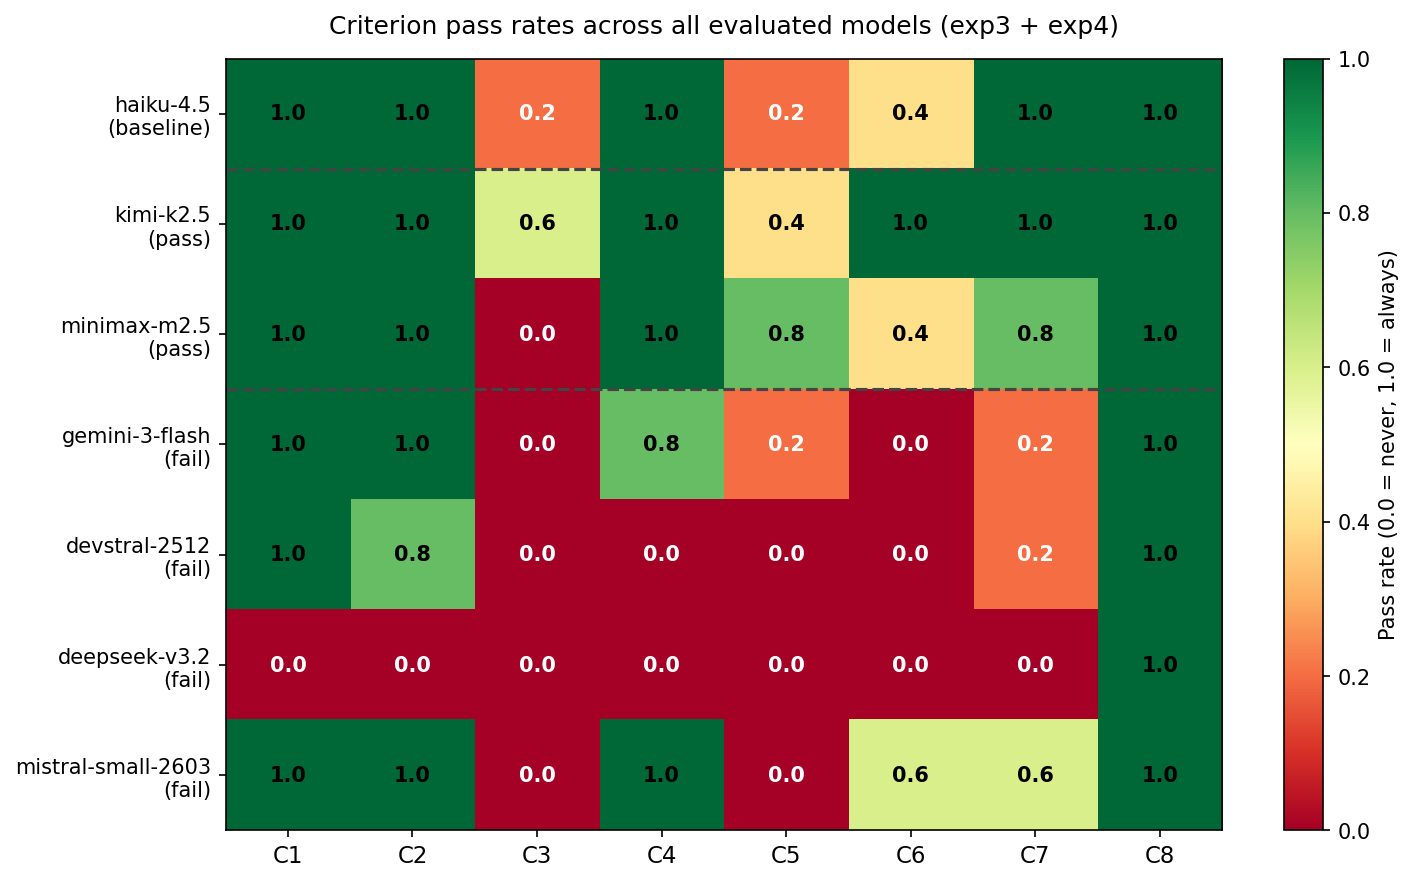
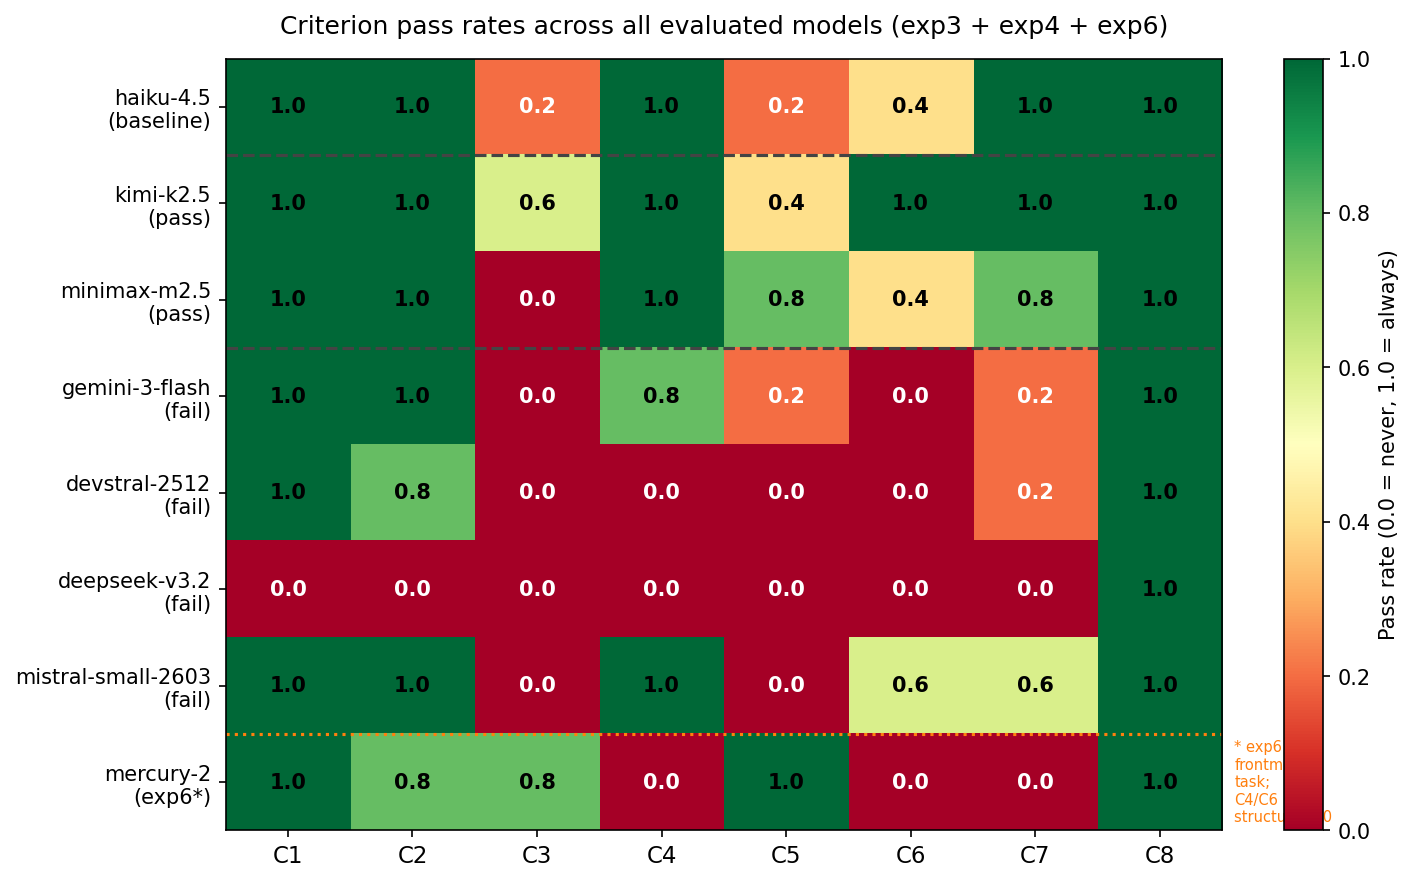
docs(figures): add Mercury 2 to all four figures
- mean-score-bar: add mercury-2 bar (exp6, orange) with task caveat annotation
- criterion-heatmap: add mercury-2 row (C4/C6 structurally 0, C7=0/5)
  with orange dashed separator and footnote
- cost-quality-scatter: add mercury-2 point (orange triangle); update
  legend and title
- eff-cost-bar: add mercury-2 bar (orange, $0.0007); asterisk annotation
  noting different task

All figures: orange = exp6 (different task), distinct from pass/fail/baseline.
Source .py files updated alongside PNGs.

diff --git a/figures/eff-cost-bar.py b/figures/eff-cost-bar.py
@@ -2,36 +2,38 @@ import matplotlib
 matplotlib.use('Agg')
 import matplotlib.pyplot as plt
 
-models    = ["minimax-m2.5", "gemini-3-flash", "deepseek-v3.2", "mistral-small-2603", "kimi-k2.5", "devstral-2512", "haiku-4.5"]
-eff_cpqp  = [0.0179,         0.0217,           0.0210,          0.0023,               0.0401,       0.045,           0.1505]
-verdicts  = ["pass",         "fail",           "fail",          "fail",               "pass",       "fail",          "baseline"]
+models    = ["minimax-m2.5", "gemini-3-flash", "deepseek-v3.2", "mistral-small-2603", "kimi-k2.5", "devstral-2512", "haiku-4.5", "mercury-2"]
+eff_cpqp  = [0.0179,         0.0217,           0.0210,          0.0023,               0.0401,       0.045,           0.1505,      0.0007]
+verdicts  = ["pass",         "fail",           "fail",          "fail",               "pass",       "fail",          "baseline",  "exp6"]
 
 # Sort by eff_cpqp ascending
 sorted_data = sorted(zip(eff_cpqp, models, verdicts))
 eff_cpqp_s, models_s, verdicts_s = zip(*sorted_data)
 
-colors_map = {"baseline": "#1f77b4", "pass": "#2ca02c", "fail": "#d62728"}
+colors_map = {"baseline": "#1f77b4", "pass": "#2ca02c", "fail": "#d62728", "exp6": "#ff7f0e"}
 bar_colors = [colors_map[v] for v in verdicts_s]
 
 fig, ax = plt.subplots(figsize=(8, 4))
 bars = ax.barh(models_s, eff_cpqp_s, color=bar_colors, height=0.6)
 
 ax.set_xlabel("Effective cost per quality point (USD) -- lower is better", fontsize=11)
-ax.set_title("Efficiency metric: eff_cost_per_qp -- exp3 & exp4 candidates", fontsize=12)
+ax.set_title("Efficiency metric: eff_cost_per_qp -- exp3, exp4, and exp6 candidates", fontsize=12)
 ax.set_xlim(0, 0.17)
 
 # Annotate bars with values
-for bar, val in zip(bars, eff_cpqp_s):
+for bar, val, model in zip(bars, eff_cpqp_s, models_s):
+    label = f"${val:.4f}" + (" *" if model == "mercury-2" else "")
     ax.text(val + 0.002, bar.get_y() + bar.get_height() / 2,
-            f"${val:.4f}", va="center", fontsize=9)
+            label, va="center", fontsize=9)
 
-# Note about DeepSeek moved to README; removed from figure
+ax.text(0.01, -0.5, "* exp6 (frontmatter task; not directly comparable to exp3/exp4)", fontsize=7, color="#ff7f0e", transform=ax.get_yaxis_transform())
 
 from matplotlib.lines import Line2D
 legend_elements = [
     Line2D([0], [0], marker="s", color="w", markerfacecolor="#1f77b4", markersize=9, label="Baseline"),
     Line2D([0], [0], marker="s", color="w", markerfacecolor="#2ca02c", markersize=9, label="Pass"),
     Line2D([0], [0], marker="s", color="w", markerfacecolor="#d62728", markersize=9, label="Fail"),
+    Line2D([0], [0], marker="s", color="w", markerfacecolor="#ff7f0e", markersize=9, label="Exp6 (different task)"),
 ]
 ax.legend(handles=legend_elements, loc="lower right", fontsize=9)
 

diff --git a/figures/cost-quality-scatter.py b/figures/cost-quality-scatter.py
@@ -3,13 +3,13 @@ matplotlib.use('Agg')
 import matplotlib.pyplot as plt
 from matplotlib.lines import Line2D
 
-models     = ["haiku-4.5", "kimi-k2.5", "minimax-m2.5", "gemini-3-flash", "devstral-2512", "deepseek-v3.2", "mistral-small-2603"]
-cost_usd   = [0.0222, 0.0122, 0.0043, 0.0021, 0.0025, 0.0011, 0.0078]
-mean_score = [5.8, 6.6, 6.4, 4.2, 3.0, 1.0, 5.4]
-verdicts   = ["baseline", "pass", "pass", "fail", "fail", "fail", "fail"]
+models     = ["haiku-4.5", "kimi-k2.5", "minimax-m2.5", "gemini-3-flash", "devstral-2512", "deepseek-v3.2", "mistral-small-2603", "mercury-2"]
+cost_usd   = [0.0222, 0.0122, 0.0043, 0.0021, 0.0025, 0.0011, 0.0078, 0.0029]
+mean_score = [5.8, 6.6, 6.4, 4.2, 3.0, 1.0, 5.4, 4.6]
+verdicts   = ["baseline", "pass", "pass", "fail", "fail", "fail", "fail", "exp6"]
 
-colors  = {"baseline": "#1f77b4", "pass": "#2ca02c", "fail": "#d62728"}
-markers = {"baseline": "D", "pass": "o", "fail": "x"}
+colors  = {"baseline": "#1f77b4", "pass": "#2ca02c", "fail": "#d62728", "exp6": "#ff7f0e"}
+markers = {"baseline": "D", "pass": "o", "fail": "x", "exp6": "^"}
 offsets = {
     "haiku-4.5":      (8, -12),
     "kimi-k2.5":      (8,   4),
@@ -18,6 +18,7 @@ offsets = {
     "devstral-2512":  (8, -12),
     "deepseek-v3.2":  (8,   4),
     "mistral-small-2603": (8, -12),
+    "mercury-2":      (8,   4),
 }
 
 fig, ax = plt.subplots(figsize=(8, 5))
@@ -35,12 +36,13 @@ ax.set_xlim(0.0005, 0.1)
 ax.set_ylim(0, 8.5)
 ax.set_xlabel("Estimated cost per run (USD, log scale)", fontsize=11)
 ax.set_ylabel("Mean total score (0-8)", fontsize=11)
-ax.set_title("Quality vs. Cost -- exp3 & exp4 candidates", fontsize=12)
+ax.set_title("Quality vs. Cost -- exp3, exp4, and exp6 candidates", fontsize=12)
 
 legend_elements = [
     Line2D([0], [0], marker="D", color="w", markerfacecolor="#1f77b4", markersize=9, label="Baseline"),
     Line2D([0], [0], marker="o", color="w", markerfacecolor="#2ca02c", markersize=9, label="Pass"),
     Line2D([0], [0], marker="x", color="#d62728",                      markersize=9, label="Fail"),
+    Line2D([0], [0], marker="^", color="w", markerfacecolor="#ff7f0e", markersize=9, label="Exp6 (different task)"),
 ]
 ax.legend(handles=legend_elements, loc="lower right", fontsize=9)
 

diff --git a/figures/mean-score-bar.py b/figures/mean-score-bar.py
@@ -2,11 +2,11 @@ import matplotlib
 matplotlib.use('Agg')
 import matplotlib.pyplot as plt
 
-models   = ["haiku-4.5\n(baseline)", "gemini-3-flash\n(exp3)", "devstral-2512\n(exp3)", "minimax-m2.5\n(exp4)", "kimi-k2.5\n(exp4)", "deepseek-v3.2\n(exp4)", "mistral-small-2603\n(exp4)"]
-scores   = [5.8, 4.2, 3.0, 6.4, 6.6, 1.0, 5.4]
-verdicts = ["baseline", "fail", "fail", "pass", "pass", "fail", "fail"]
+models   = ["haiku-4.5\n(baseline)", "gemini-3-flash\n(exp3)", "devstral-2512\n(exp3)", "minimax-m2.5\n(exp4)", "kimi-k2.5\n(exp4)", "deepseek-v3.2\n(exp4)", "mistral-small-2603\n(exp4)", "mercury-2\n(exp6*)"]
+scores   = [5.8, 4.2, 3.0, 6.4, 6.6, 1.0, 5.4, 4.6]
+verdicts = ["baseline", "fail", "fail", "pass", "pass", "fail", "fail", "exp6"]
 
-colors = {"baseline": "#1f77b4", "pass": "#2ca02c", "fail": "#d62728"}
+colors = {"baseline": "#1f77b4", "pass": "#2ca02c", "fail": "#d62728", "exp6": "#ff7f0e"}
 bar_colors = [colors[v] for v in verdicts]
 
 fig, ax = plt.subplots(figsize=(9, 5))
@@ -24,8 +24,18 @@ ax.set_xticks(range(len(models)))
 ax.set_xticklabels(models, fontsize=9)
 ax.set_ylim(0, 8.5)
 ax.set_ylabel("Mean total score (0-8)", fontsize=11)
-ax.set_title("Mean score per model -- exp3 and exp4", fontsize=12)
+ax.set_title("Mean score per model -- exp3, exp4, and exp6", fontsize=12)
 ax.legend(fontsize=9, loc="upper right")
+
+from matplotlib.lines import Line2D
+legend_elements = [
+    Line2D([0], [0], marker="s", color="w", markerfacecolor="#1f77b4", markersize=9, label="Baseline"),
+    Line2D([0], [0], marker="s", color="w", markerfacecolor="#2ca02c", markersize=9, label="Pass"),
+    Line2D([0], [0], marker="s", color="w", markerfacecolor="#d62728", markersize=9, label="Fail"),
+    Line2D([0], [0], marker="s", color="w", markerfacecolor="#ff7f0e", markersize=9, label="Exp6 (different task)"),
+]
+ax.legend(handles=legend_elements, fontsize=9, loc="upper right")
+ax.text(7, 4.6 + 0.3, "* frontmatter task;\nC4/C6 structurally 0", ha="center", va="bottom", fontsize=7, color="#ff7f0e")
 ax.yaxis.grid(True, linestyle="--", alpha=0.4, zorder=0)
 ax.set_axisbelow(True)
 

diff --git a/figures/criterion-heatmap.py b/figures/criterion-heatmap.py
@@ -11,6 +11,7 @@ models = [
     'devstral-2512\n(fail)',
     'deepseek-v3.2\n(fail)',
     'mistral-small-2603\n(fail)',
+    'mercury-2\n(exp6*)',
 ]
 criteria = ['C1', 'C2', 'C3', 'C4', 'C5', 'C6', 'C7', 'C8']
 data = np.array([
@@ -21,6 +22,7 @@ data = np.array([
     [1.0, 0.8, 0.0, 0.0, 0.0, 0.0, 0.2, 1.0],  # devstral
     [0.0, 0.0, 0.0, 0.0, 0.0, 0.0, 0.0, 1.0],  # deepseek
     [1.0, 1.0, 0.0, 1.0, 0.0, 0.6, 0.6, 1.0],  # mistral
+    [1.0, 0.8, 0.8, 0.0, 1.0, 0.0, 0.0, 1.0],  # mercury-2 (exp6; C4/C6 structurally 0)
 ])
 
 fig, ax = plt.subplots(figsize=(10, 6))
@@ -40,9 +42,12 @@ for i in range(len(models)):
 
 ax.axhline(y=0.5, color='#444', linewidth=1.5, linestyle='--')
 ax.axhline(y=2.5, color='#444', linewidth=1.5, linestyle='--')
+ax.axhline(y=6.5, color='#ff7f0e', linewidth=1.5, linestyle=':')
+
+ax.text(7.6, 7, '* exp6\nfrontmatter\ntask;\nC4/C6\nstructurally 0', ha='left', va='center', fontsize=7, color='#ff7f0e')
 
 plt.colorbar(im, ax=ax, label='Pass rate (0.0 = never, 1.0 = always)')
-ax.set_title('Criterion pass rates across all evaluated models (exp3 + exp4)', fontsize=12, pad=12)
+ax.set_title('Criterion pass rates across all evaluated models (exp3 + exp4 + exp6)', fontsize=12, pad=12)
 
 plt.tight_layout()
 plt.savefig('figures/criterion-heatmap.png', dpi=150, bbox_inches='tight')
